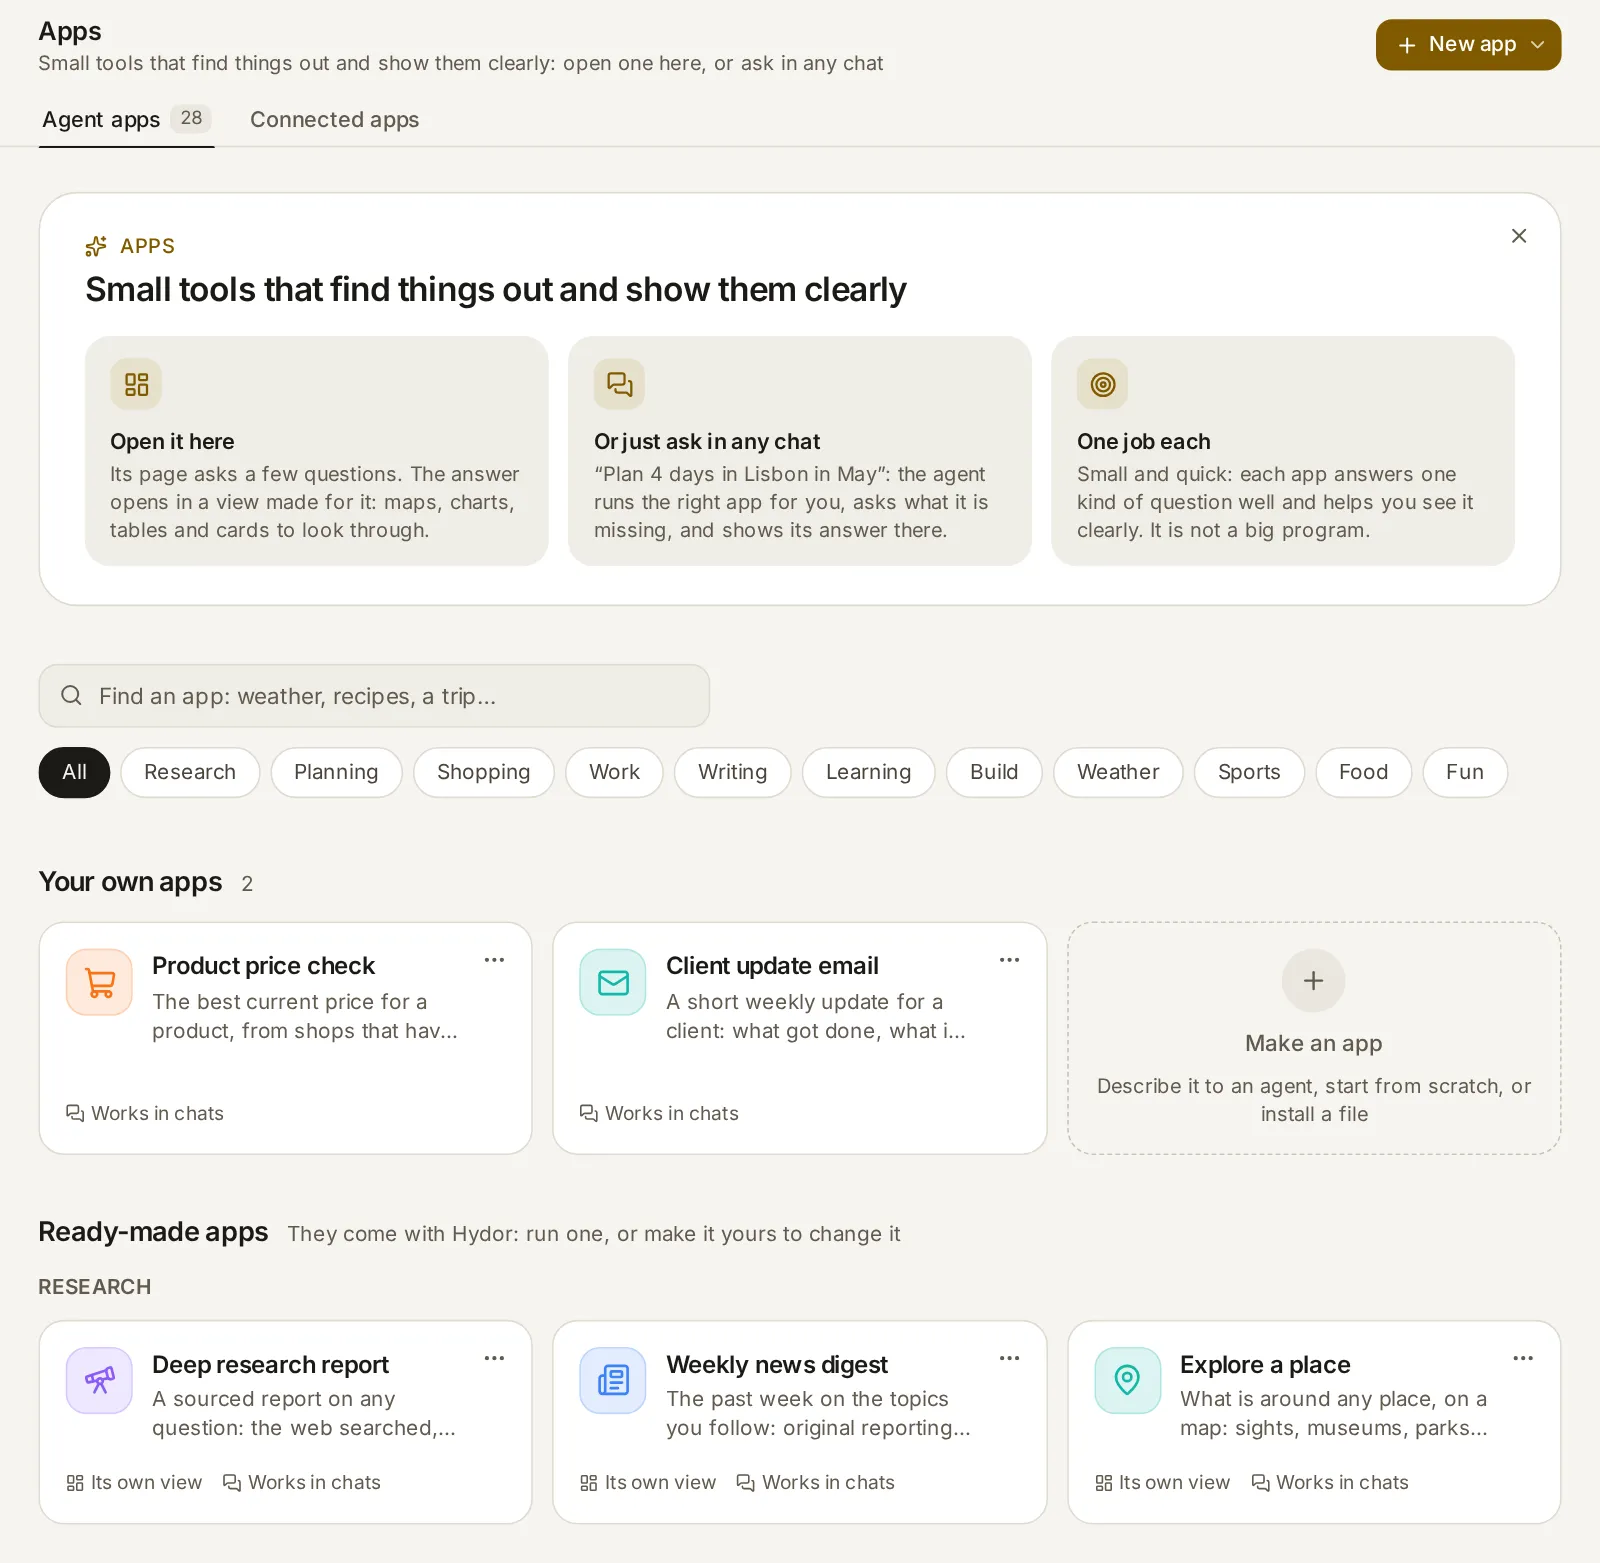
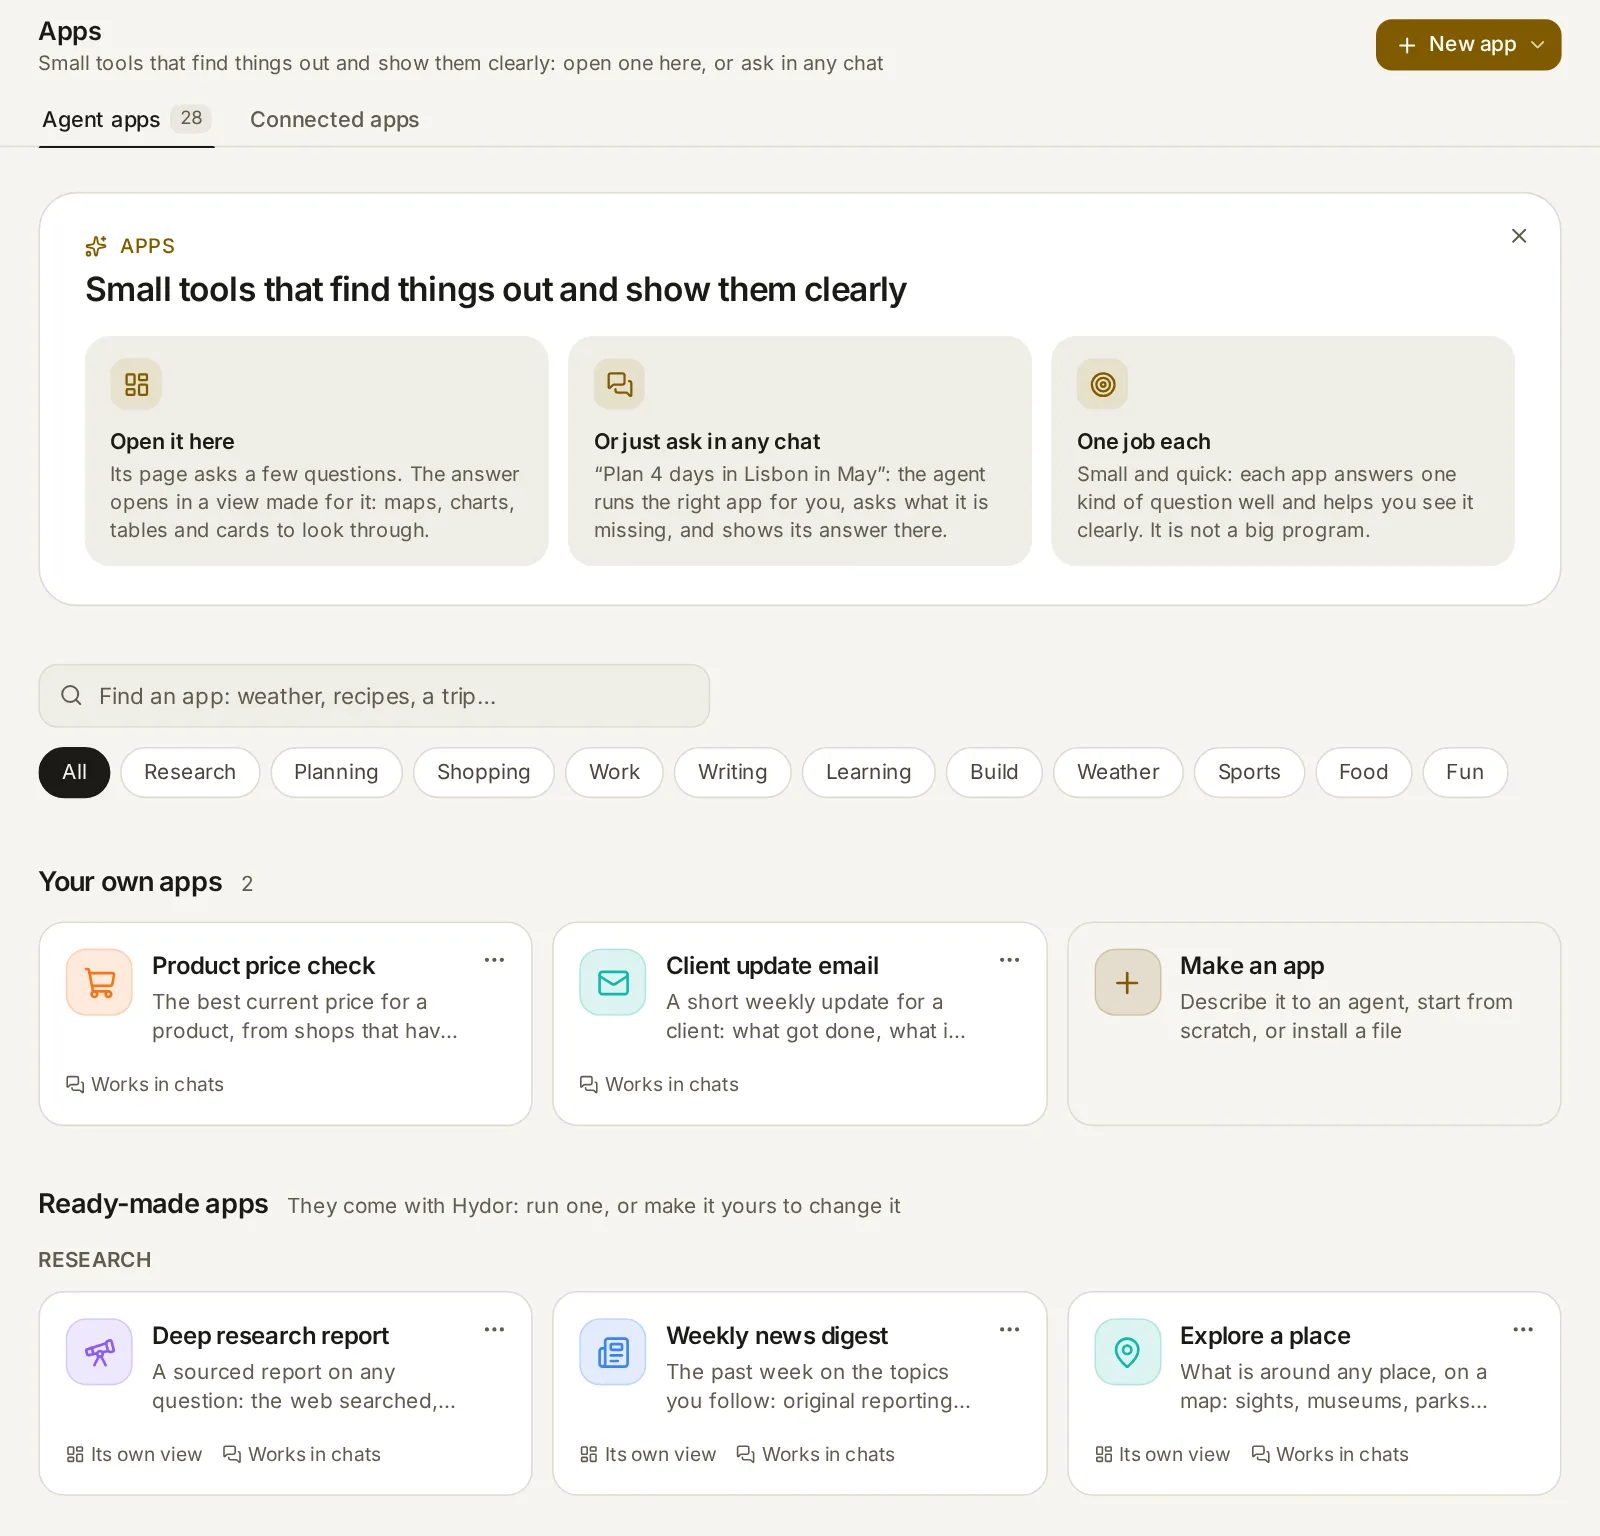
Apps: the Make an app tile looks like an app card, and is one row while you have no apps of your own
The tile after your own apps was a dashed box with a grey plus in a circle and centred grey words (the last one often
alone on its line), so it looked switched off. It now has an app card's face: a plus on a tile of the accent colour,
the name in full and the line under it, in a plain outline that sets it apart from the apps. With no apps of your own
yet, it is one row across the page (with an arrow), the same on a phone, instead of a lone box beside two empty
columns. It still opens a new app, where you describe it, start from scratch or install a file. The Apps guide's
picture shows it.

diff --git a/web/src/features/apps/Gallery.tsx b/web/src/features/apps/Gallery.tsx
@@ -212,19 +212,26 @@ function YourApp({ a, ready }: { a: CardApp; ready?: boolean }) {
 /** Cards side by side; on a phone, the rows of one list (shorter, so more of them show). */
 const GRID = 'grid sm:grid-cols-2 sm:gap-3 lg:grid-cols-3 max-sm:divide-y max-sm:divide-line max-sm:overflow-hidden max-sm:rounded-2xl max-sm:border max-sm:border-line';
 
-/** Your own app, made here: a tile at the end of yours that opens the builder (which also takes a description or a file). */
-function NewTile() {
+/** Your own app, made here: it opens the builder (which also takes a description or a file). After your apps, a card
+ *  with an app card's face (a plus on an accent tile, the name, a line); with none yet, one row across the page. */
+function NewTile({ row }: { row?: boolean }) {
   return (
     <button
       type="button"
       onClick={() => go('/apps/new')}
-      className="flex min-h-[128px] w-full flex-col items-center justify-center gap-2 rounded-2xl border border-dashed border-line-2 p-4 text-center text-fg-3 transition-colors hover:border-accent/60 hover:bg-accent-soft hover:text-accent max-sm:hidden"
+      className={cx(
+        'group flex w-full gap-3 rounded-2xl border border-line text-left transition-colors hover:border-line-2 hover:bg-bg-1',
+        row ? 'items-center px-4 py-3 sm:gap-4 sm:px-5 sm:py-4' : 'min-h-[128px] items-start p-4 max-sm:hidden',
+      )}
     >
-      <span className="grid h-10 w-10 place-items-center rounded-full bg-bg-2">
-        <Plus size={18} />
+      <span aria-hidden className="grid h-[42px] w-[42px] shrink-0 place-items-center rounded-[13px] bg-accent/15 text-accent ring-1 ring-accent/20 ring-inset">
+        <Plus size={21} strokeWidth={1.9} />
       </span>
-      <span className="text-[14px] font-medium">Make an app</span>
-      <span className="text-[12.5px] leading-snug">Describe it to an agent, start from scratch, or install a file</span>
+      <span className="min-w-0 flex-1">
+        <span className="block text-[15px] font-semibold tracking-tight">Make an app</span>
+        <span className="mt-0.5 block text-[13px] leading-snug text-pretty text-fg-3">Describe it to an agent, start from scratch, or install a file</span>
+      </span>
+      {row && <ChevronRight size={16} className="shrink-0 text-fg-3 transition-colors group-hover:text-accent" />}
     </button>
   );
 }
@@ -493,13 +500,7 @@ export function GalleryPage({ tab = 'agent' }: { tab?: 'agent' | 'connected' }) 
                     {!words && cat === 'All' && <NewTile />}
                   </div>
                 ) : (
-                  <div className="grid gap-3 sm:grid-cols-2 lg:grid-cols-3">
-                    <NewTile />
-                    <button type="button" onClick={() => go('/apps/new')} className="flex items-center gap-3 rounded-2xl border border-dashed border-line-2 px-4 py-3 text-left text-fg-2 sm:hidden">
-                      <Plus size={18} className="shrink-0 text-accent" />
-                      <span className="text-[14px] font-medium">Make an app</span>
-                    </button>
-                  </div>
+                  <NewTile row />
                 )}
               </Part>
             )}
